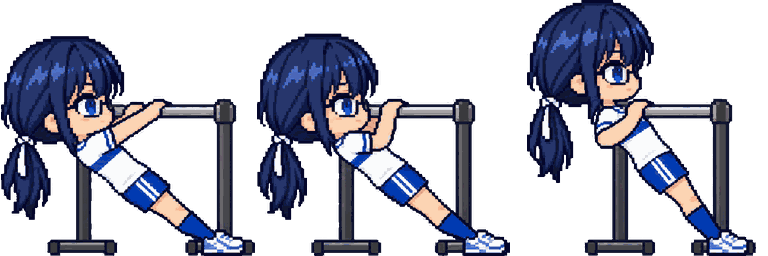
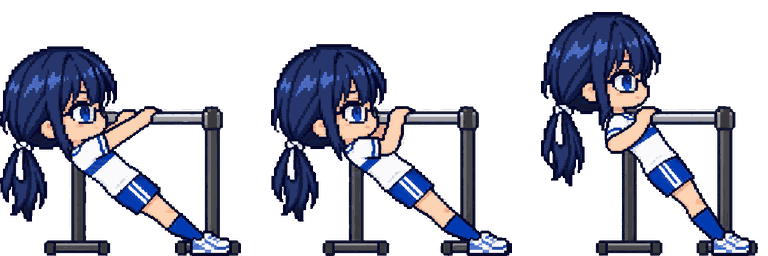
Stop the bar jumping in Yuki's inverted row
Her first frame was drawn with the rack in a different place. The body
is most of the picture, so the line-up followed it and the bar hopped
sideways each repetition. The cutter takes a hand nudge per frame now,
for the cases where what should stay still is not what fills the frame.

diff --git a/scripts/move-assets.py b/scripts/move-assets.py
@@ -18,9 +18,14 @@ from PIL import Image
 CELL = 256
 
 if len(sys.argv) < 4:
-    sys.exit('usage: move-assets.py <drawing.png> <move id> <advisor id> [frames=3]')
+    sys.exit('usage: move-assets.py <drawing.png> <move id> <advisor id> [frames=3] [nudges, e.g. 0,48,48]')
 src, move, girl = Path(sys.argv[1]), sys.argv[2], sys.argv[3]
 frames = int(sys.argv[4]) if len(sys.argv) > 4 else 3
+# An optional fifth argument moves frames by hand, in pixels of the picture as it came:
+# 「0,48,48」 sets the second and third 48 to the right of where best_shift put them.
+# For when the equipment was drawn in a different place in one frame and the girl's
+# body, which is most of the picture, wins the line-up (Yuki's inverted row).
+nudges = [int(n) for n in sys.argv[5].split(',')] if len(sys.argv) > 5 else [0] * frames
 
 pixels = np.array(Image.open(src).convert('RGBA'))
 solid = pixels[..., 3] >= 128
@@ -146,6 +151,7 @@ for prev, cur in zip(cuts, cuts[1:]):
     if share < 0.25:
         dx = (prev.shape[1] - cur.shape[1]) // 2
     offsets.append(offsets[-1] + dx)
+offsets = [o + n for o, n in zip(offsets, nudges)]
 left = min(offsets)
 offsets = [o - left for o in offsets]
 width = max(o + c.shape[1] for o, c in zip(offsets, cuts))

diff --git a/NOTES.md b/NOTES.md
@@ -809,6 +809,7 @@
 - **유키의 스무 장**(둘째 묶음 전부)도 받아 넣었다. 다시 받은 것은 없다. 피아는 스물세 장 가운데 스무 장을 받아 넣었다(다시 받은 것 없음).
 - 도는 종목(`ROUND`)에 수영, 천국의 계단, 파머스 워크, 인클라인 워킹, 등산, 에어 바이크, 섀도 복싱을 더했다. 플러터 킥과
   배틀 로프는 갔다 오는 쪽이다(올린 다리는 내려온다).
+- **칸을 겹쳐 놓고 봤다 (새벽 4시).** 오늘 넣은 띠 104장의 세 칸을 한 장에 반투명으로 겹치면 가만있는 것은 또렷하고 움직이는 것만 흐리다. 기구가 흐리면 밀리는 것이다. 유키의 인버티드 로우 하나가 6%쯤 밀려 있었다: 첫 칸만 철봉이 다른 자리에 그려졌고, 몸이 그림의 대부분이라 `best_shift`가 몸에 맞췄다. **`move-assets.py`의 다섯째 인자로 칸을 손으로 민다**(`0,40,40`, 받은 그림의 픽셀). 손으로 민 것은 `moves/nudges.txt`에 적고 `recut.sh`가 읽는다 — 안 그러면 다시 자를 때 되돌아간다. 고치지 않은 것: 힙 어브덕션 머신(세 아이 모두 머신이 칸마다 다른 너비로 그려졌다), 유키의 시티드 카프 레이즈(원판 쪽만), 리나의 푸시업 바(손잡이가 조금, 발은 가만있다)와 랜드마인 프레스(고정점이 조금). 그림이 그렇게 온 것이라 밀어서는 안 맞는다.
 - 눈에 걸린 것(틀리지는 않아 넣었다): 덤벨 슈러그와 수영은 세 칸이 거의 같다. 다이아몬드 푸시업은 정면이라 얼굴과 손만 보인다.
   **앱에서 도는 모습은 진열대의 첫 줄만 봤다.**
 
